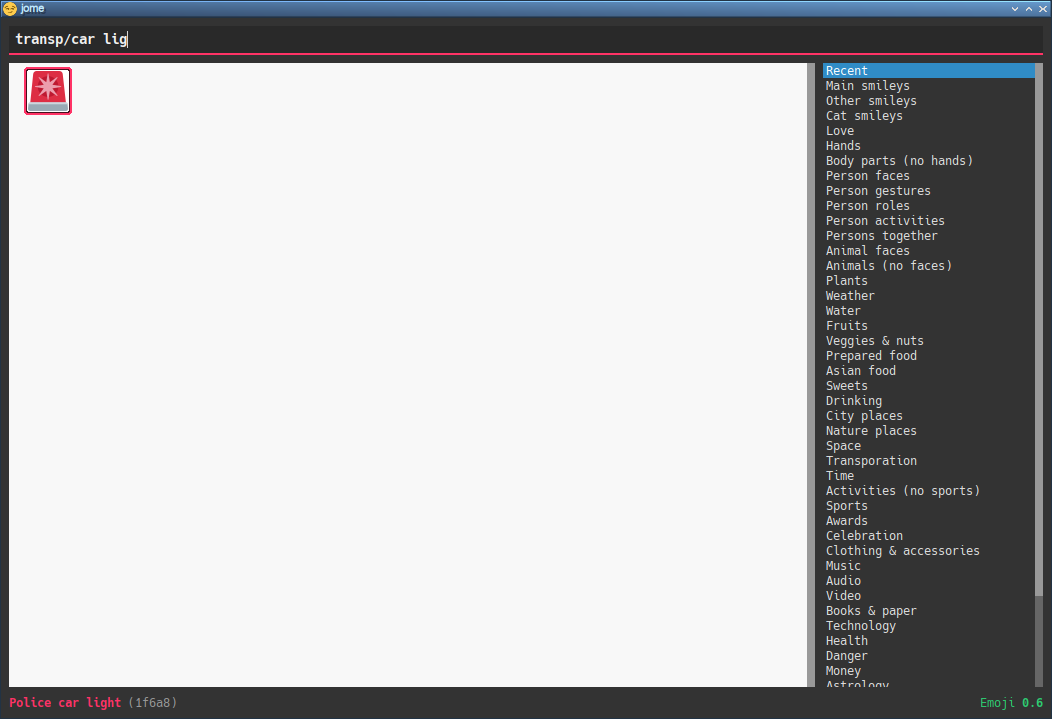
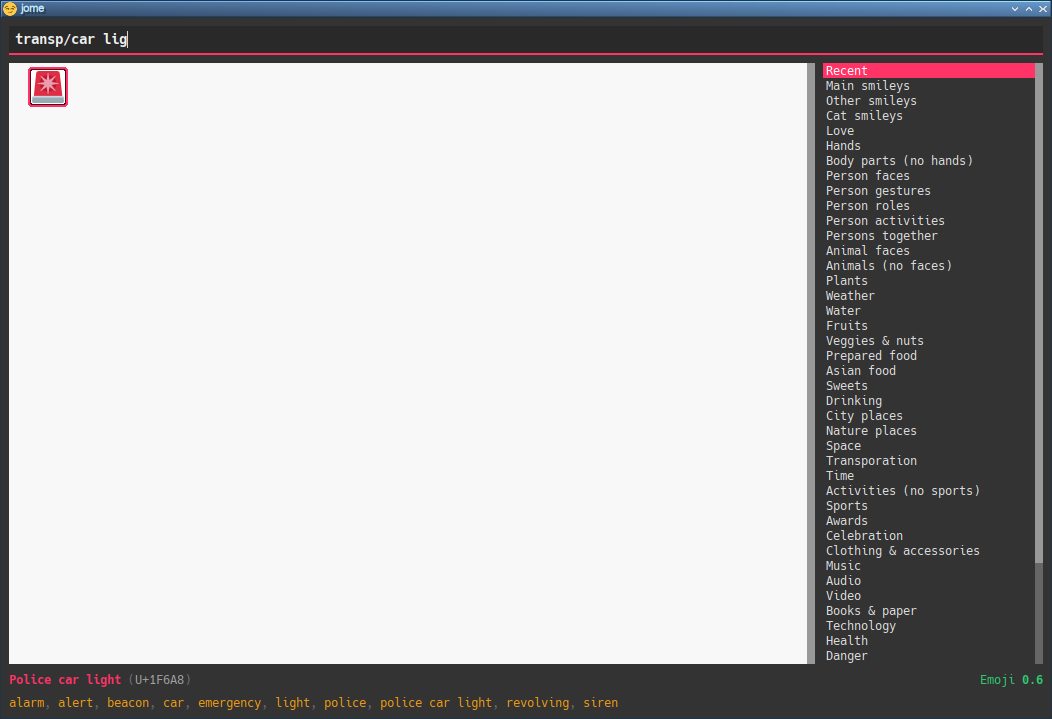
Add keyword list at the bottom of current emoji infos
Any horizontal overflow will be hidden.

Use the `-k` option to hide the keyword list (returns to previous look).

diff --git a/jome/q-jome-window.cpp b/jome/q-jome-window.cpp
@@ -16,6 +16,7 @@
 #include <QStringList>
 #include <QGraphicsTextItem>
 #include <QKeyEvent>
+#include <QPalette>
 #include <boost/algorithm/string.hpp>
 #include <boost/optional/optional.hpp>
 
@@ -123,6 +124,7 @@ bool QSearchBoxEventFilter::eventFilter(QObject * const obj, QEvent * const even
 }
 
 QJomeWindow::QJomeWindow(const EmojiDb& emojiDb, const bool darkBg, const bool noCatList,
+                         const bool noKwList,
                          const boost::optional<unsigned int>& selectedEmojiFlashPeriod) :
     _emojiDb {&emojiDb}
 {
@@ -130,7 +132,7 @@ QJomeWindow::QJomeWindow(const EmojiDb& emojiDb, const bool darkBg, const bool n
     this->setWindowTitle("jome");
     this->resize(800, 600);
     this->_setMainStyleSheet();
-    this->_buildUi(darkBg, noCatList, selectedEmojiFlashPeriod);
+    this->_buildUi(darkBg, noCatList, noKwList, selectedEmojiFlashPeriod);
 }
 
 void QJomeWindow::_setMainStyleSheet()
@@ -175,9 +177,6 @@ void QJomeWindow::_setMainStyleSheet()
         "QScrollBar::add-line:vertical,"
         "QScrollBar::sub-line:vertical {"
         "  height: 0;"
-        "}"
-        "QLabel {"
-        "  color: #ff3366;"
         "}";
 
     this->setStyleSheet(styleSheet);
@@ -200,7 +199,19 @@ QListWidget *QJomeWindow::_createCatListWidget()
     return listWidget;
 }
 
-void QJomeWindow::_buildUi(const bool darkBg, const bool noCatList,
+namespace {
+
+void setQLabelFgColor(QLabel& widget, const QColor& color)
+{
+    auto palette = widget.palette();
+
+    palette.setColor(QPalette::WindowText, color);
+    widget.setPalette(palette);
+}
+
+} // namespace
+
+void QJomeWindow::_buildUi(const bool darkBg, const bool noCatList, const bool noKwList,
                            const boost::optional<unsigned int>& selectedEmojiFlashPeriod)
 {
     _wSearchBox = new QLineEdit;
@@ -280,15 +291,32 @@ void QJomeWindow::_buildUi(const bool darkBg, const bool noCatList,
         this->setCentralWidget(centralWidget);
     }
 
-    const auto infoHbox = new QHBoxLayout;
+    {
+        const auto infoHbox = new QHBoxLayout;
 
-    _wInfoLabel = new QLabel {""};
-    infoHbox->addWidget(_wInfoLabel);
-    _wVersionLabel = new QLabel {""};
-    _wVersionLabel->setFixedWidth(80);
-    _wVersionLabel->setAlignment(Qt::AlignRight);
-    infoHbox->addWidget(_wVersionLabel);
-    mainVbox->addLayout(infoHbox);
+        _wInfoLabel = new QLabel {""};
+        setQLabelFgColor(*_wInfoLabel, "#ff3366");
+        infoHbox->addWidget(_wInfoLabel);
+        _wVersionLabel = new QLabel {""};
+        setQLabelFgColor(*_wVersionLabel, "#2ecc71");
+        _wVersionLabel->setFixedWidth(80);
+        _wVersionLabel->setAlignment(Qt::AlignRight);
+        infoHbox->addWidget(_wVersionLabel);
+        mainVbox->addLayout(infoHbox);
+    }
+
+    {
+        _wKwLabel = new QLabel {""};
+        setQLabelFgColor(*_wKwLabel, "#f39c12");
+        _wKwLabel->setWordWrap(false);
+        _wKwLabel->setTextInteractionFlags(Qt::NoTextInteraction);
+        _wKwLabel->setSizePolicy(QSizePolicy::Ignored, QSizePolicy::Preferred);
+        mainVbox->addWidget(_wKwLabel);
+
+        if (noKwList) {
+            _wKwLabel->hide();
+        }
+    }
 }
 
 void QJomeWindow::showEvent(QShowEvent * const event)
@@ -497,6 +525,7 @@ void QJomeWindow::_updateBottomLabels(const Emoji * const emoji)
 {
     this->_updateInfoLabel(emoji);
     this->_updateVersionLabel(emoji);
+    this->_updateKwLabel(emoji);
 }
 
 namespace {
@@ -550,7 +579,7 @@ void QJomeWindow::_updateVersionLabel(const Emoji * const emoji)
         QString text;
 
         if (emoji) {
-            text += "<span style=\"color: #2ecc71\">Emoji <b>";
+            text += "Emoji <b>";
 
             text += call([emoji] {
                 switch (emoji->version()) {
@@ -604,11 +633,30 @@ void QJomeWindow::_updateVersionLabel(const Emoji * const emoji)
                 }
             });
 
-            text += "</b></span>";
+            text += "</b>";
         }
 
         return text;
     }));
+}
+
+void QJomeWindow::_updateKwLabel(const Emoji * const emoji)
+{
+
+    QString text;
+
+    if (emoji) {
+        QStringList kws;
+
+        for (auto& kw : emoji->keywords()) {
+            kws.append(QString::fromStdString(kw));
+        }
+
+        kws.sort();
+        text = kws.join(normInfoLabelText(", "));
+    }
+
+    _wKwLabel->setText(text);
 }
 
 void QJomeWindow::emojiDbChanged()

diff --git a/jome/jome.cpp b/jome/jome.cpp
@@ -44,6 +44,7 @@ struct Params final
     unsigned int maxRecentEmojis;
     bool removeVs16;
     bool noCatList;
+    bool noKwList;
 };
 
 namespace {
@@ -69,6 +70,7 @@ Params parseArgs(QApplication& app)
     const QCommandLineOption maxRecentEmojisOpt {"H", "Set maximum number of recently accepted emojis to <COUNT>.", "COUNT"};
     const QCommandLineOption removeVs16Opt {"V", "Remove VS-16 codepoints."};
     const QCommandLineOption noCatListOpt {"C", "Hide category list."};
+    const QCommandLineOption noKwListOpt {"k", "Hide keyword list."};
 
     parser.addOption(formatOpt);
     parser.addOption(serverNameOpt);
@@ -83,6 +85,7 @@ Params parseArgs(QApplication& app)
     parser.addOption(maxRecentEmojisOpt);
     parser.addOption(removeVs16Opt);
     parser.addOption(noCatListOpt);
+    parser.addOption(noKwListOpt);
     parser.process(app);
 
     Params params;
@@ -93,6 +96,7 @@ Params parseArgs(QApplication& app)
     params.copyToClipboard = parser.isSet(copyToClipboardOpt);
     params.removeVs16 = parser.isSet(removeVs16Opt);
     params.noCatList = parser.isSet(noCatListOpt);
+    params.noKwList = parser.isSet(noKwListOpt);
 
     {
         const auto fmt = parser.value(formatOpt);
@@ -250,7 +254,7 @@ int main(int argc, char **argv)
 
     const auto params = parseArgs(app);
     jome::EmojiDb db {JOME_DATA_DIR, params.emojiSize, params.maxRecentEmojis};
-    jome::QJomeWindow win {db, params.darkBg, params.noCatList, params.selectedEmojiFlashPeriod};
+    jome::QJomeWindow win {db, params.darkBg, params.noCatList, params.noKwList, params.selectedEmojiFlashPeriod};
 
     QObject::connect(&win, &jome::QJomeWindow::canceled, [&app, &server, &db]() {
         if (server) {

diff --git a/jome/q-jome-window.hpp b/jome/q-jome-window.hpp
@@ -61,7 +61,7 @@ class QJomeWindow final :
     Q_OBJECT
 
 public:
-    explicit QJomeWindow(const EmojiDb& emojiDb, bool darkBg, bool noCatList,
+    explicit QJomeWindow(const EmojiDb& emojiDb, bool darkBg, bool noCatList, bool noKwList,
                          const boost::optional<unsigned int>& selectedEmojiFlashPeriod);
 
 signals:
@@ -75,12 +75,13 @@ private:
     void closeEvent(QCloseEvent *event) override;
     void showEvent(QShowEvent *event) override;
     void _setMainStyleSheet();
-    void _buildUi(bool darkBg, const bool noCatList,
+    void _buildUi(bool darkBg, bool noCatList, bool noKwList,
                   const boost::optional<unsigned int>& selectedEmojiFlashPeriod);
     QListWidget *_createCatListWidget();
     void _updateBottomLabels(const Emoji *emoji);
     void _updateInfoLabel(const Emoji *emoji);
     void _updateVersionLabel(const Emoji *emoji);
+    void _updateKwLabel(const Emoji *emoji);
     void _findEmojis(const std::string& cat, const std::string& needles);
     void _acceptSelectedEmoji(const boost::optional<Emoji::SkinTone>& skinTone);
     void _acceptEmoji(const Emoji& emoji, const boost::optional<Emoji::SkinTone>& skinTone);
@@ -118,6 +119,7 @@ private:
     QListWidget *_wCatList = nullptr;
     QLabel *_wInfoLabel = nullptr;
     QLabel *_wVersionLabel = nullptr;
+    QLabel *_wKwLabel = nullptr;
     QLineEdit *_wSearchBox = nullptr;
     bool _emojisWidgetBuilt = false;
     const Emoji *_selectedEmoji = nullptr;
